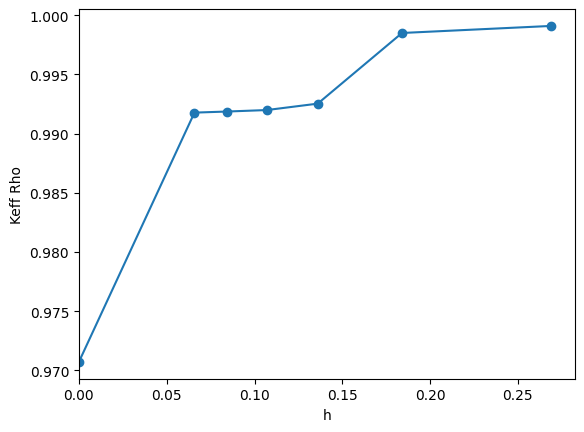
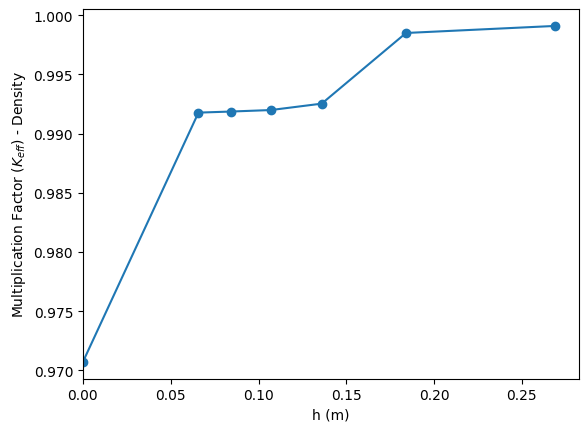
fixed graphic issues

diff --git a/plots.py b/plots.py
@@ -1185,6 +1185,7 @@ def tox_tru(out_files, inp_file):
 #    plt.clf()
 
 def feedback(out_files, out_files_tmp, out_files_den, inp_file):
+    years = timesteps(inp_file)
 
     out     = neutronic_output(out_files[0], inp_file)
     out_tmp = neutronic_output(out_files_tmp[0], inp_file)
@@ -1224,7 +1225,7 @@ def feedback(out_files, out_files_tmp, out_files_den, inp_file):
     plt.xscale('log')
     plt.xlabel('Operation Time (Years)')
     plt.ylabel('Feedback Coefficient (pcm/K)')
-    plt.savefig('keff_feedback.png', bbox_inches='tight')
+    plt.savefig('feedback.png', bbox_inches='tight')
     plt.clf()
 
     #Temp and Den
@@ -1240,8 +1241,8 @@ def feedback(out_files, out_files_tmp, out_files_den, inp_file):
     
     plt.xscale('log')
     plt.xlabel('Operation Time (Years)')
-    plt.ylabel('Density coefficient and Doppler coefficient')
-    plt.savefig('keff_dop_den.png', bbox_inches='tight')
+    #plt.ylabel('Density coefficient and Doppler coefficient')
+    plt.savefig('doppler_and_den.png', bbox_inches='tight')
     plt.clf()
 
     #Feedback msh:
@@ -1331,8 +1332,8 @@ def feedback(out_files, out_files_tmp, out_files_den, inp_file):
 
     #Feedback coef.
     for i, v in enumerate(res):
-        if i == 0: plt.plot(v, '.-', label = 'No Mesh')
-        else:      plt.plot(v, '.-', label = f'Mesh {i}')
+        if i == 0: plt.plot(years, v, '.-', label = 'No Mesh')
+        else:      plt.plot(years, v, '.-', label = f'Mesh {i}')
     
     # plt.errorbar(x, y_res, err_res, linestyle = 'None', 
     #             color = 'black', capsize = 3)
@@ -1353,13 +1354,13 @@ def feedback(out_files, out_files_tmp, out_files_den, inp_file):
     plt.xscale('log')
     plt.xlabel('Operation Time (Years)')
     plt.ylabel('Feedback Coefficient (pcm/K)')
-    plt.savefig('keff_feedback_msh.png', bbox_inches='tight')
+    plt.savefig('feedback_msh.png', bbox_inches='tight')
     plt.clf()
 
     #Doppler Msh
     for i, v in enumerate(doppler_coef):
-        if i == 0: plt.plot(v, '.-', label = 'No Mesh')
-        else:      plt.plot(v, '.-', label = f'Mesh {i}')
+        if i == 0: plt.plot(years, v, '.-', label = 'No Mesh')
+        else:      plt.plot(years, v, '.-', label = f'Mesh {i}')
 
     # plt.errorbar(x, doppler_coef['keff'], err_tmp, linestyle = 'None', 
     #             color = 'black', capsize = 3)
@@ -1380,14 +1381,14 @@ def feedback(out_files, out_files_tmp, out_files_den, inp_file):
     
     plt.xscale('log')
     plt.xlabel('Operation Time (Years)')
-    plt.ylabel('Doppler Coefficient')
-    plt.savefig('keff_dop_msh.png', bbox_inches='tight')
+    plt.ylabel('Doppler Coefficient (pcm/k)')
+    plt.savefig('doppler_msh.png', bbox_inches='tight')
     plt.clf()
 
     #Density Msh
     for i, v in enumerate(density_coef):
-        if i == 0: plt.plot(v, '.-', label = 'No Mesh')
-        else:      plt.plot(v, '.-', label = f'Mesh {i}')
+        if i == 0: plt.plot(years, v, '.-', label = 'No Mesh')
+        else:      plt.plot(years, v, '.-', label = f'Mesh {i}')
 
     #plt.errorbar(x, density_coef['keff'], err_den, linestyle = 'None', 
     #            color = 'black', capsize = 3)
@@ -1408,8 +1409,8 @@ def feedback(out_files, out_files_tmp, out_files_den, inp_file):
     
     plt.xscale('log')
     plt.xlabel('Operation Time (Years)')
-    plt.ylabel('Density Coefficient')
-    plt.savefig('keff_den_msh.png', bbox_inches='tight')
+    plt.ylabel('Density Coefficient (pcm/k)')
+    plt.savefig('density_msh.png', bbox_inches='tight')
     plt.clf()
 
 
@@ -1440,7 +1441,7 @@ def h_index(out_files, out_files_tmp, out_files_den):
     #plt.errorbar(h[0:5], keff[0:5], err, linestyle = 'None', color = 'black', capsize = 3)
     
     plt.xlim(0)
-    plt.xlabel('h')
+    plt.xlabel('h (m)')
     plt.ylabel(r'Multiplication Factor ($K_{eff}$)')
     plt.savefig('keff_h.png', bbox_inches = 'tight')
     plt.clf()
@@ -1470,8 +1471,8 @@ def h_index(out_files, out_files_tmp, out_files_den):
     #plt.errorbar(h[0:5], beta_zero[0:5], err, linestyle = 'None', color = 'black', capsize = 3)
     
     plt.xlim(0)
-    plt.xlabel('h')
-    plt.ylabel('Beta Zero')
+    plt.xlabel('h (m)')
+    plt.ylabel('Beta Zero (pcm)')
     plt.savefig('beta_zero_h.png', bbox_inches = 'tight')
     plt.clf()
     
@@ -1500,8 +1501,8 @@ def h_index(out_files, out_files_tmp, out_files_den):
     #plt.errorbar(h[0:5], beta_eff[0:5], err, linestyle = 'None', color = 'black', capsize = 3)
     
     plt.xlim(0)
-    plt.xlabel('h')
-    plt.ylabel('Beta Effective')
+    plt.xlabel('h (m)')
+    plt.ylabel('Beta Effective (pcm)')
     plt.savefig('beta_eff_h.png', bbox_inches = 'tight')
     plt.clf()
     
@@ -1530,7 +1531,7 @@ def h_index(out_files, out_files_tmp, out_files_den):
     #plt.errorbar(h[0:5], gen_time[0:5], err, linestyle = 'None', color = 'black', capsize = 3)
     
     plt.xlim(0)
-    plt.xlabel('h')
+    plt.xlabel('h (m)')
     plt.ylabel('Generation Time')
     plt.savefig('gen_time_h.png', bbox_inches = 'tight')
     plt.clf()
@@ -1589,8 +1590,8 @@ def h_index(out_files, out_files_tmp, out_files_den):
     #plt.errorbar(h[0:5], keff_doppler[0:5], err, linestyle = 'None', color = 'black', capsize = 3)
     
     plt.xlim(0)
-    plt.xlabel('h')
-    plt.ylabel('Keff Doppler')
+    plt.xlabel('h (m)')
+    plt.ylabel(r'Multiplication Factor ($K_{eff}$) - Doppler')
     plt.savefig('keff_doppler_h.png', bbox_inches = 'tight')
     plt.clf()
 
@@ -1612,8 +1613,8 @@ def h_index(out_files, out_files_tmp, out_files_den):
     #plt.errorbar(h[0:5], keff_rho[0:5], err, linestyle = 'None', color = 'black', capsize = 3)
     
     plt.xlim(0)
-    plt.xlabel('h')
-    plt.ylabel('Keff Rho')
+    plt.xlabel('h (m)')
+    plt.ylabel(r'Multiplication Factor ($K_{eff}$) - Density')
     plt.savefig('keff_rho_h.png', bbox_inches = 'tight')
     plt.clf()
 
@@ -1635,8 +1636,8 @@ def h_index(out_files, out_files_tmp, out_files_den):
     #plt.errorbar(h[0:5], doppler_coef[0:5], err, linestyle = 'None', color = 'black', capsize = 3)
     
     plt.xlim(0)
-    plt.xlabel('h')
-    plt.ylabel('Doppler Coefficient')
+    plt.xlabel('h (m)')
+    plt.ylabel('Doppler Coefficient (pcm/k)')
     plt.savefig('doppler_h.png', bbox_inches = 'tight')
     plt.clf()
 
@@ -1658,8 +1659,8 @@ def h_index(out_files, out_files_tmp, out_files_den):
     #plt.errorbar(h[0:5], rho_coef[0:5], err, linestyle = 'None', color = 'black', capsize = 3)
     
     plt.xlim(0)
-    plt.xlabel('h')
-    plt.ylabel('Density Coefficient')
+    plt.xlabel('h (m)')
+    plt.ylabel('Density Coefficient (pcm/k)')
     plt.savefig('density_h.png', bbox_inches = 'tight')
     plt.clf()
 
@@ -1681,8 +1682,8 @@ def h_index(out_files, out_files_tmp, out_files_den):
     #plt.errorbar(h[0:5], feedback_coef[0:5], err, linestyle = 'None', color = 'black', capsize = 3)
     
     plt.xlim(0)
-    plt.xlabel('h')
-    plt.ylabel('Feedback Coefficient')
+    plt.xlabel('h (m)')
+    plt.ylabel('Feedback Coefficient (pcm/k)')
     plt.savefig('feedback_h.png', bbox_inches = 'tight')
     plt.clf()
 
@@ -1714,7 +1715,7 @@ def h_index_tru(out_files, out_files_tmp, out_files_den):
     #plt.errorbar(h[0:5], keff[0:5], err, linestyle = 'None', color = 'black', capsize = 3)
     
     plt.xlim(0)
-    plt.xlabel('h')
+    plt.xlabel('h (m)')
     plt.ylabel(r'Multiplication Factor ($K_{eff}$)')
     plt.savefig('keff_h_tru.png', bbox_inches = 'tight')
     plt.clf()
@@ -1744,8 +1745,8 @@ def h_index_tru(out_files, out_files_tmp, out_files_den):
     #plt.errorbar(h[0:5], beta_zero[0:5], err, linestyle = 'None', color = 'black', capsize = 3)
     
     plt.xlim(0)
-    plt.xlabel('h')
-    plt.ylabel('Beta Zero')
+    plt.xlabel('h (m)')
+    plt.ylabel('Beta Zero (pcm)')
     plt.savefig('beta_zero_h_tru.png', bbox_inches = 'tight')
     plt.clf()
     
@@ -1774,8 +1775,8 @@ def h_index_tru(out_files, out_files_tmp, out_files_den):
     #plt.errorbar(h[0:5], beta_eff[0:5], err, linestyle = 'None', color = 'black', capsize = 3)
     
     plt.xlim(0)
-    plt.xlabel('h')
-    plt.ylabel('Beta Effective')
+    plt.xlabel('h (m)')
+    plt.ylabel('Beta Effective (pcm)')
     plt.savefig('beta_eff_h_tru.png', bbox_inches = 'tight')
     plt.clf()
     
@@ -1804,7 +1805,7 @@ def h_index_tru(out_files, out_files_tmp, out_files_den):
     #plt.errorbar(h[0:5], gen_time[0:5], err, linestyle = 'None', color = 'black', capsize = 3)
     
     plt.xlim(0)
-    plt.xlabel('h')
+    plt.xlabel('h (m)')
     plt.ylabel('Generation Time')
     plt.savefig('gen_time_h_tru.png', bbox_inches = 'tight')
     plt.clf()
@@ -1863,8 +1864,8 @@ def h_index_tru(out_files, out_files_tmp, out_files_den):
     #plt.errorbar(h[0:5], keff_doppler[0:5], err, linestyle = 'None', color = 'black', capsize = 3)
     
     plt.xlim(0)
-    plt.xlabel('h')
-    plt.ylabel('Keff Doppler')
+    plt.xlabel('h (m)')
+    plt.ylabel(r'Multiplication Factor ($K_{eff}$) - Doppler')
     plt.savefig('keff_doppler_h_tru.png', bbox_inches = 'tight')
     plt.clf()
 
@@ -1886,8 +1887,8 @@ def h_index_tru(out_files, out_files_tmp, out_files_den):
     #plt.errorbar(h[0:5], keff_rho[0:5], err, linestyle = 'None', color = 'black', capsize = 3)
     
     plt.xlim(0)
-    plt.xlabel('h')
-    plt.ylabel('Keff Rho')
+    plt.xlabel('h (m)')
+    plt.ylabel(r'Multiplication Factor ($K_{eff}$) -  Density')
     plt.savefig('keff_rho_h_tru.png', bbox_inches = 'tight')
     plt.clf()
 
@@ -1909,8 +1910,8 @@ def h_index_tru(out_files, out_files_tmp, out_files_den):
     #plt.errorbar(h[0:5], doppler_coef[0:5], err, linestyle = 'None', color = 'black', capsize = 3)
     
     plt.xlim(0)
-    plt.xlabel('h')
-    plt.ylabel('Doppler Coefficient')
+    plt.xlabel('h (m)')
+    plt.ylabel('Doppler Coefficient (pcm/k)')
     plt.savefig('doppler_h_tru.png', bbox_inches = 'tight')
     plt.clf()
 
@@ -1932,8 +1933,8 @@ def h_index_tru(out_files, out_files_tmp, out_files_den):
     #plt.errorbar(h[0:5], rho_coef[0:5], err, linestyle = 'None', color = 'black', capsize = 3)
     
     plt.xlim(0)
-    plt.xlabel('h')
-    plt.ylabel('Density Coefficient')
+    plt.xlabel('h (m)')
+    plt.ylabel('Density Coefficient (pcm/k)')
     plt.savefig('density_h_tru.png', bbox_inches = 'tight')
     plt.clf()
 
@@ -1955,8 +1956,8 @@ def h_index_tru(out_files, out_files_tmp, out_files_den):
     #plt.errorbar(h[0:5], feedback_coef[0:5], err, linestyle = 'None', color = 'black', capsize = 3)
     
     plt.xlim(0)
-    plt.xlabel('h')
-    plt.ylabel('Feedback Coefficient')
+    plt.xlabel('h (m)')
+    plt.ylabel('Feedback Coefficient (pcm/k)')
     plt.savefig('feedback_h_tru.png', bbox_inches = 'tight')
     plt.clf()
 
@@ -2108,15 +2109,15 @@ def main():
         'res/m6_msfr_mix1_benchmark_burn_density_res.m',
     ]
 
-    #plot_values(dep_files_mix1, inp_file)
+    plot_values(dep_files_mix1, inp_file)
 
-    #plot_tru_values(dep_files_mix2, inp_file)
+    plot_tru_values(dep_files_mix2, inp_file)
 
-    #keff(res_files_mix1_burn, inp_file)
+    keff(res_files_mix1_burn, inp_file)
 
-    #keff_tru(res_files_mix2_burn, inp_file)
+    keff_tru(res_files_mix2_burn, inp_file)
 
-    #feedback(res_files_mix1_burn, res_files_mix1_tmp_burn, res_files_mix1_den_burn, inp_file)
+    feedback(res_files_mix1_burn, res_files_mix1_tmp_burn, res_files_mix1_den_burn, inp_file)
     
     h_index(res_files_mix1, res_files_mix1_den, res_files_mix1_tmp)
 
